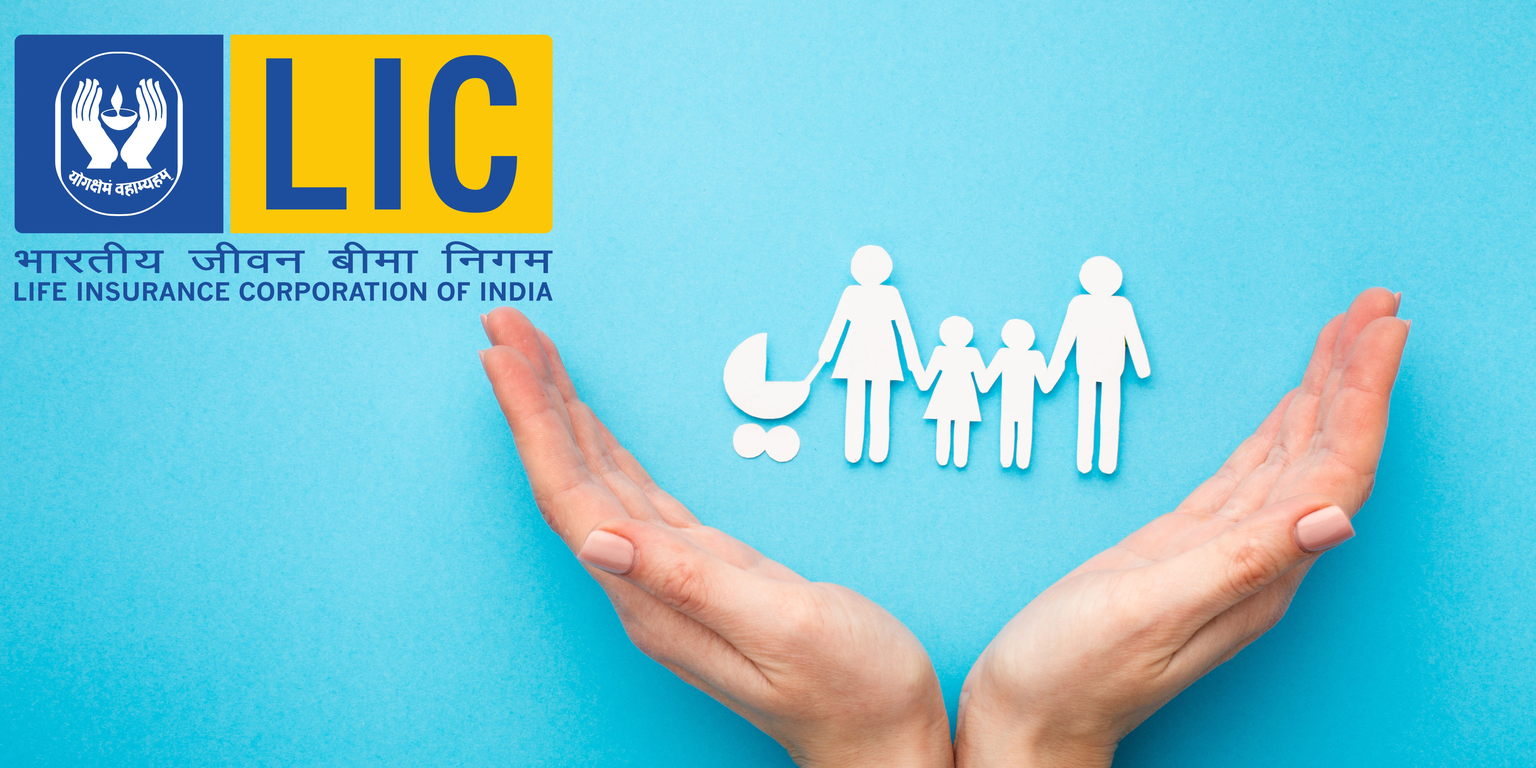
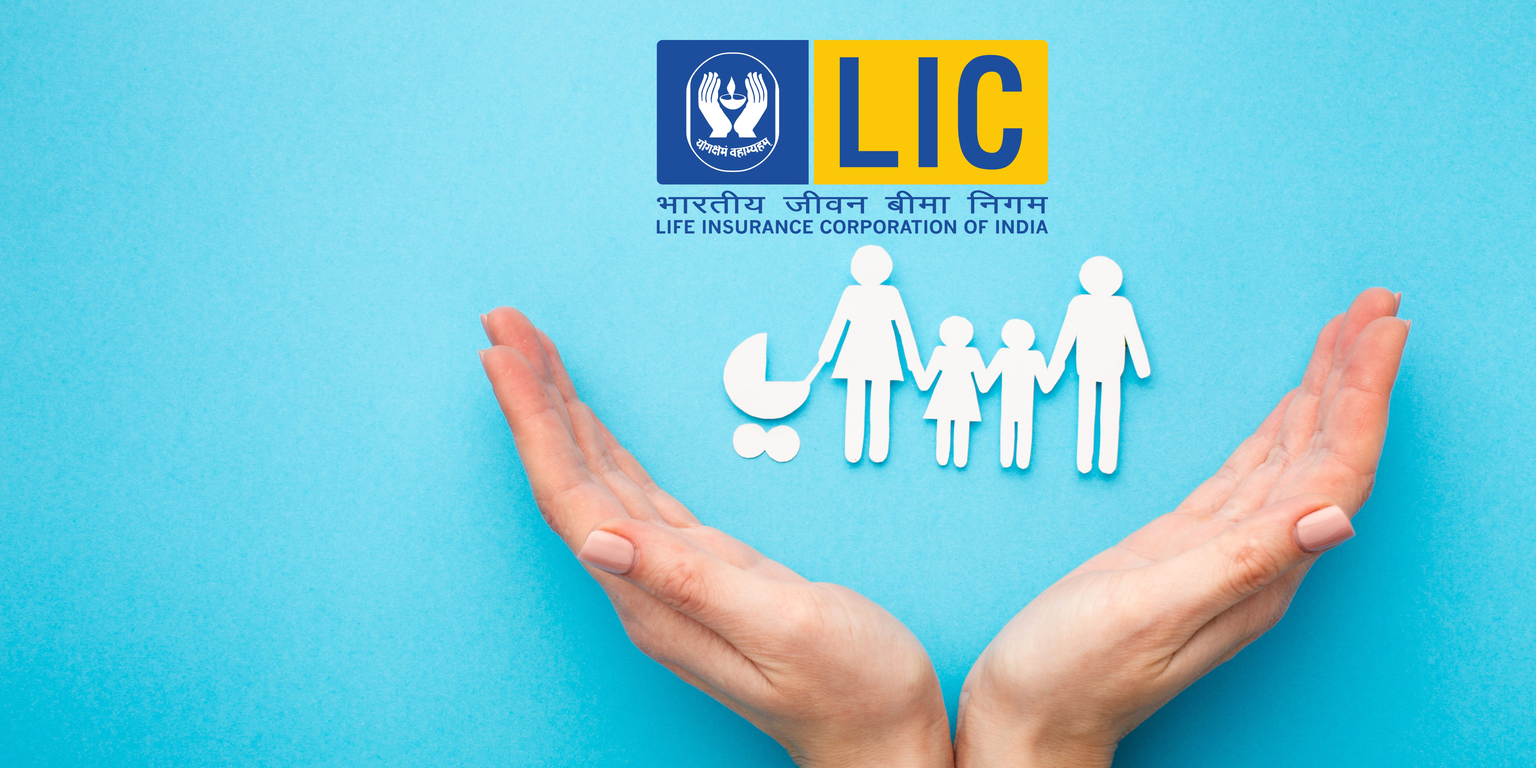
update

Changed region(s): [[0.0, 0.0312, 0.375, 0.4062], [0.4062, 0.0312, 0.6875, 0.3125]]

diff --git a/index.html b/index.html
@@ -99,7 +99,7 @@
         <div id="header-carousel" class="carousel slide" data-bs-ride="carousel">
             <div class="carousel-inner">
                 <div class="carousel-item active ">
-                    <img class="w-100 imgbanner" src="img/slider/lic2.jpg" alt="Image">
+                    <img class="w-100 imgbanner" src="img/slider/lic.jpg" alt="Image">
                     <div class="carousel-caption">
                         <div class="container">
                             <div class="row">
